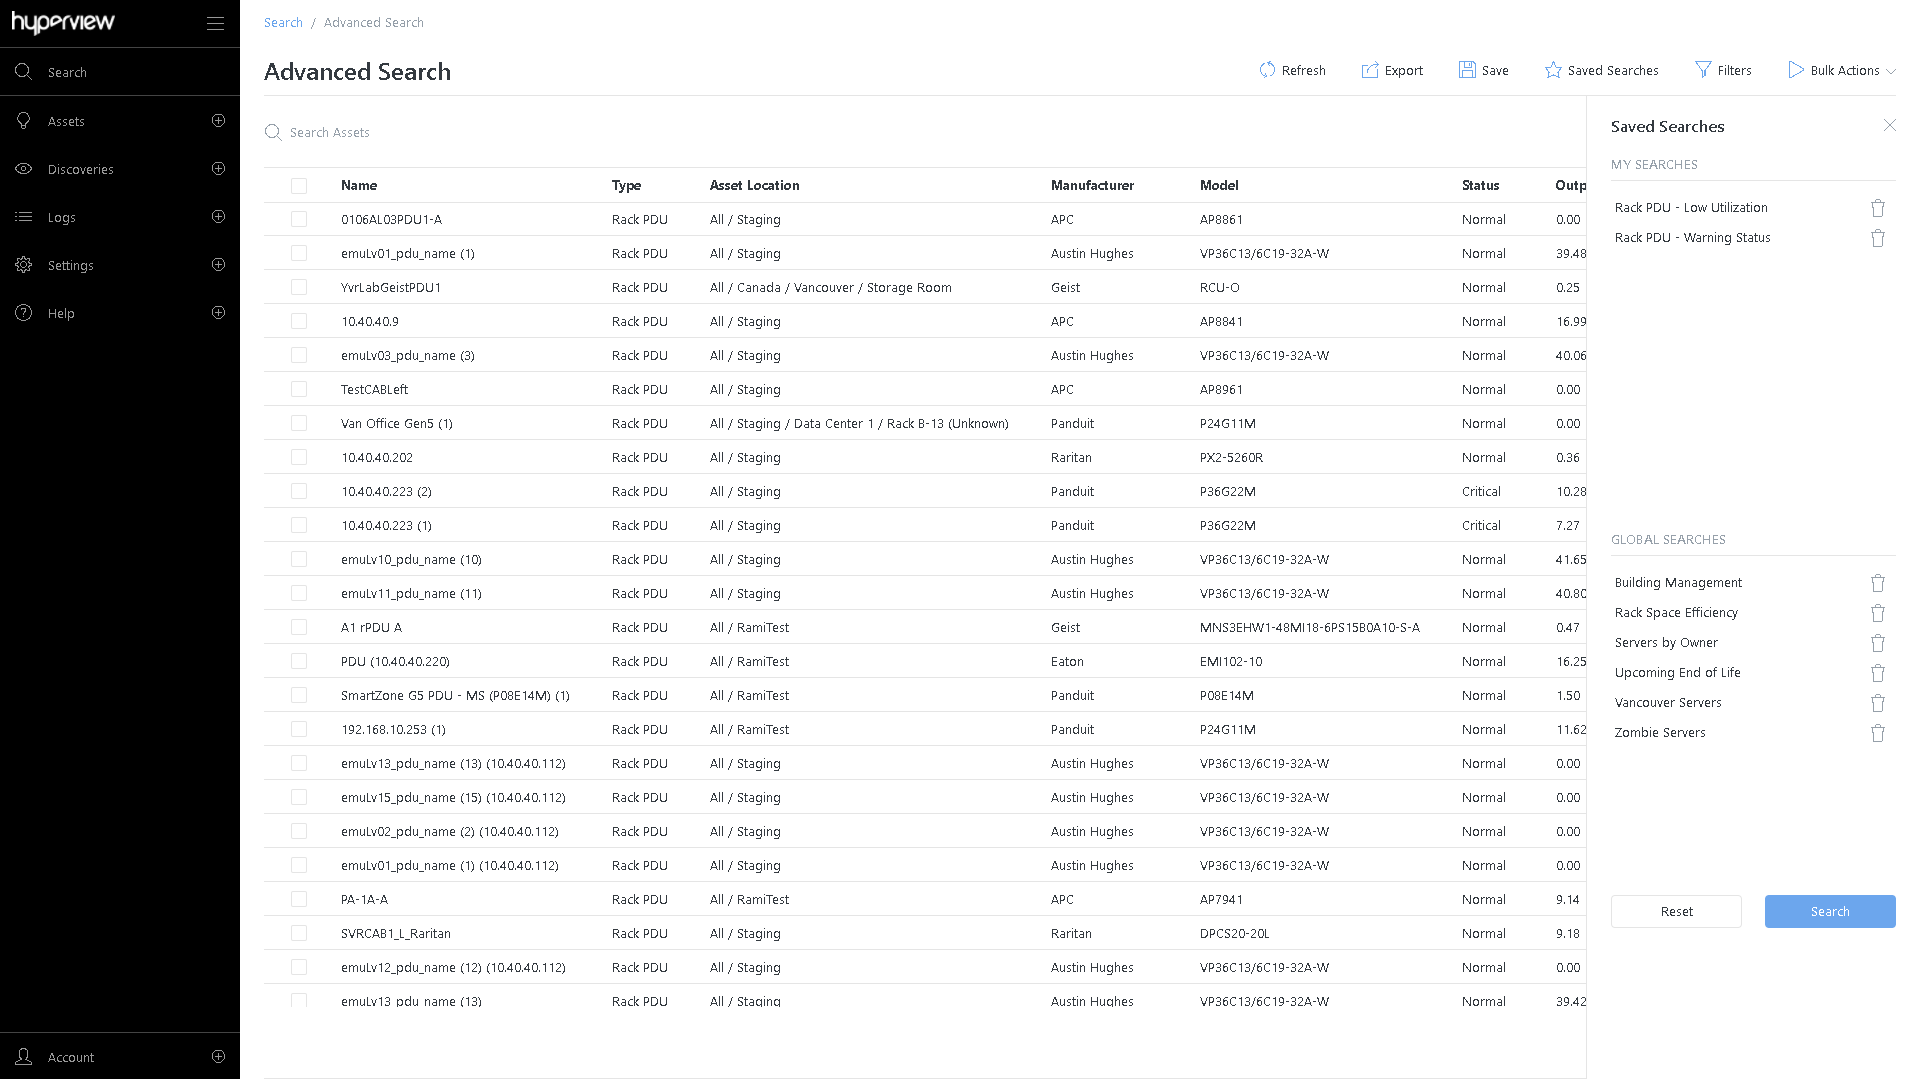
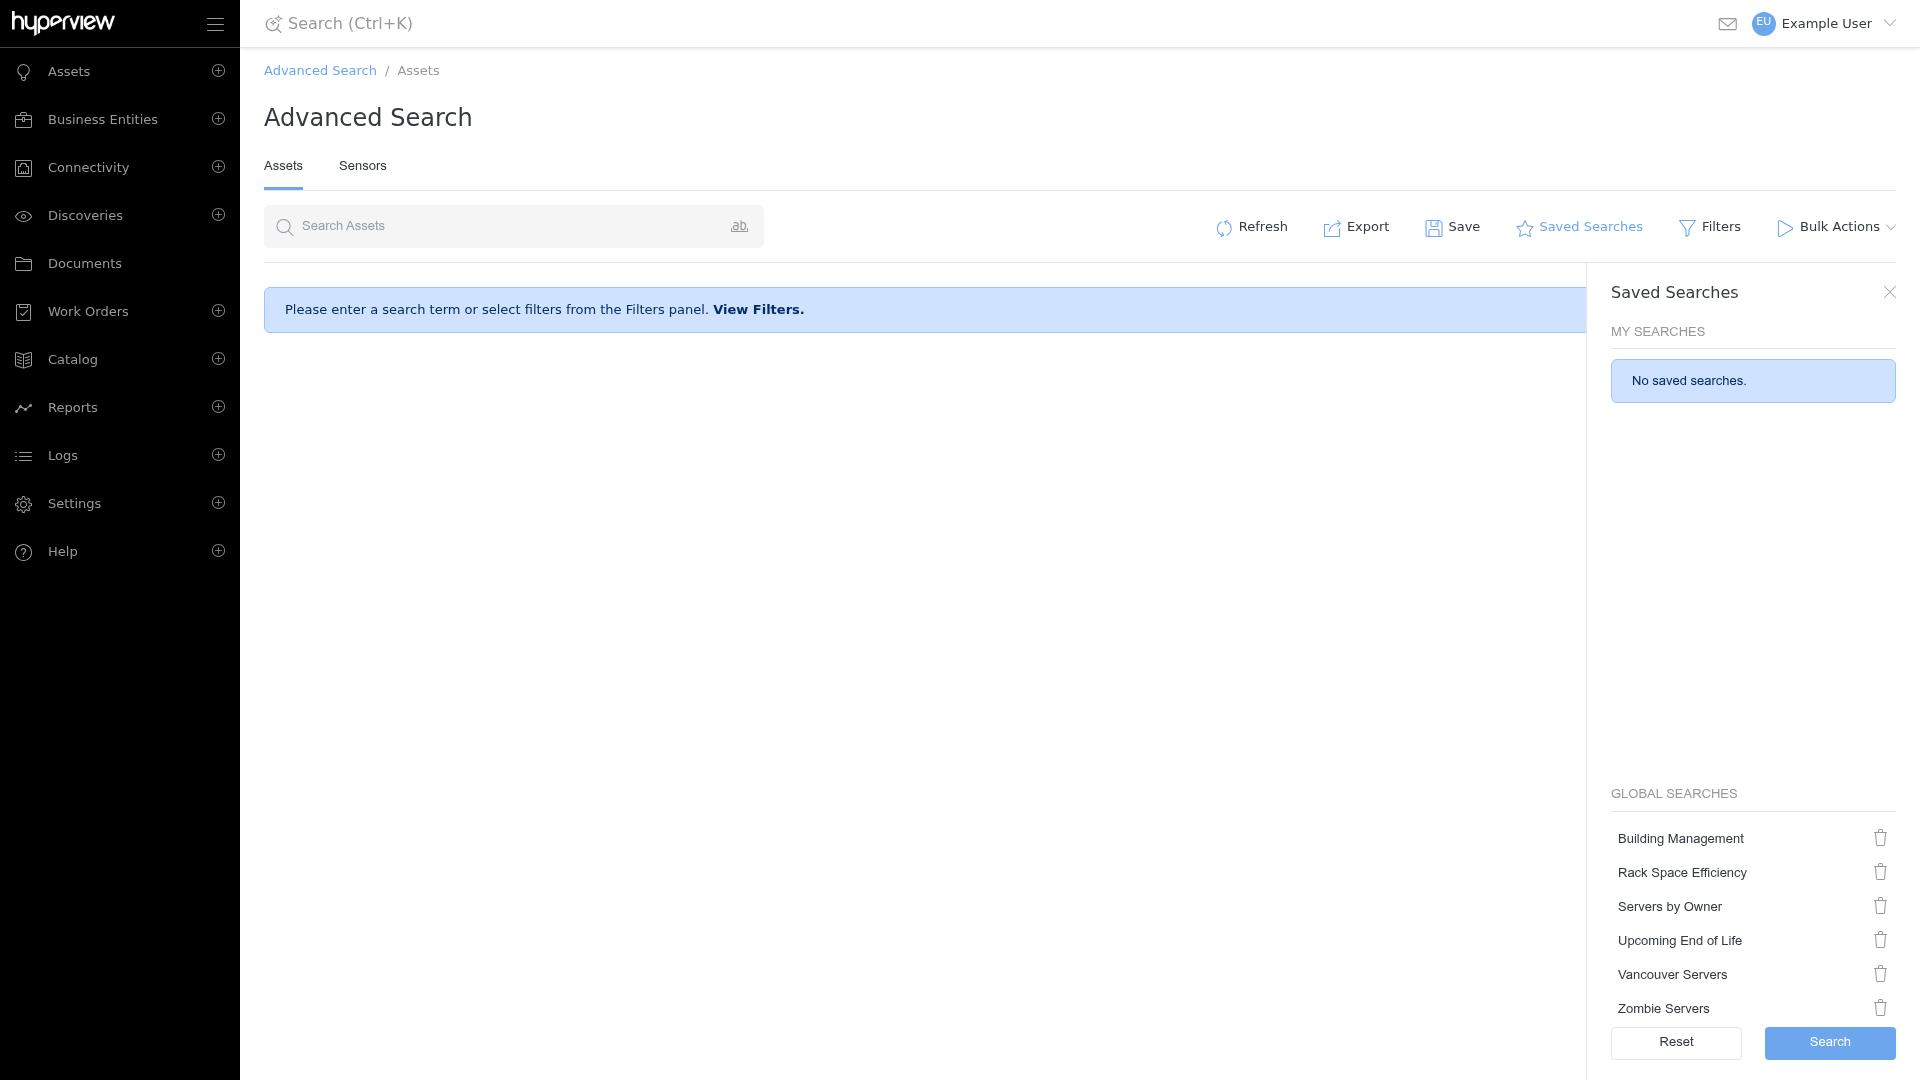
Docs updates (#73)
* Updates to npm packages
* Updates to sensor and asset search
* Refreshed some screenshots

diff --git a/documentation/user-guide/search/index.md b/documentation/user-guide/search/index.md
@@ -12,18 +12,18 @@ Quick Search and Advanced Search are both opened from the **Search** box in the 
 
 ## Quick Search and Advanced Search
 
-Quick Search lets you quickly lookup assets from the search palette (*Search → Quick*). Search results appear as soon as you type a matching character string. Clicking on a search result opens the corresponding asset Dashboard.
+Quick Search lets you quickly lookup assets from the **Quick** tab of the search palette. Search results appear as soon as you type a matching character string. Clicking on a search result opens the corresponding asset Dashboard.
 
 ```{image} /user-guide/search/media/qs.png
 :class: border-black
 ```
 
-The Advanced Search page is also accessible from the search palette (*Search → Advanced*). Search results appear in a grid, allowing users to perform relevant actions such as Export and Bulk Delete. Double-clicking a matching asset opens its Dashboard.
+The Advanced Search page is also accessible from the **Advanced** tab of the search palette. Search results appear in a grid, allowing users to perform relevant actions such as Export and Bulk Delete. Double-clicking a matching asset opens its Dashboard.
 
 Advanced Search has two tabs:
 
-- **Assets** — search for assets (described throughout this section).
-- **Sensors** — search for sensors across all asset types, and manage sensors in bulk. The Sensors tab has its own search box, filters, columns, and Export. For SNMP-based sensors, you can add the **OID** column to help verify and troubleshoot sensor readings.
+- **Assets** — search for assets. Each result is an asset. This is the default tab, and is described throughout this section.
+- **Sensors** — search for individual sensors across all asset types, and manage them in bulk. Each result is a sensor. The Sensors tab has its own search box, filters, columns, saved searches, Export, and Bulk Actions. Refer to {ref}`sensor-search` for details.
 
 ```{image} /user-guide/search/media/as.png
 :class: border-black
@@ -65,7 +65,7 @@ ___________________________________________
 
 ## Advanced Search-only features
 
-Apart from the features described in the previous section, Advanced Search lets you apply filters, add or remove grid columns, save searches, and perform generic grid operations such as exporting records.
+Apart from the features described in the previous section, Advanced Search lets you apply filters, add or remove grid columns, save searches, and perform generic grid operations such as exporting records. The filters, columns, and saved searches described below apply to the **Assets** tab (asset search); the **Sensors** tab provides its own equivalents, described in {ref}`sensor-search`.
 
 :::{note}
 A single Advanced Search query can return a maximum of 10,000 rows.
@@ -81,27 +81,33 @@ Filters are more structured and efficient compared to manual queries; we recomme
 
 #### Available filters
 
-The following filters are available:
+The following filters are available.
+
+Dropdown filters (selected directly in the Filters panel):
 
 - Type (you can select multiple asset types at once)
 - Location
 - Manufacturer
 - Model
 - Status
-- Asset Property (String)
-- Asset Property (Numeric)
-- Custom Property (String)
-- Custom Property (Numeric)
-- Custom Property (Date)
-- Sensor (String)
-- Sensor (Numeric)
+- Lifecycle State
+- Discovery State
+- Business Entity
+- Access Policy
+
+Property and sensor filters (added from the Property and Sensor Filters section — see "Adding filters" below):
+
+- Asset Property
+- Custom Property (Asset)
+- Custom Property (Business Entity)
+- Sensor
 
 Note that the default Location is All.
 
 #### Adding filters
 
 1. Click *Filters* on the Advanced Search page (or the *View Filters* link upon opening the page). The Filters panel will open.
-2. Select Type, Location, Manufacturer, Model, Status, and Lifecycle State values as needed.
+2. Select Location, Type, Manufacturer, Model, Status, Lifecycle State, Discovery State, Business Entity, and Access Policy values as needed.
 
 ```{image} /user-guide/search/media/as_filtersp.png
 :class: border-black
@@ -193,6 +199,61 @@ You can also {ref}`perform bulk actions<bulk-actions-doc>` against Advanced Sear
 ```{image} /user-guide/search/media/as_bulk.png
 :class: border-black
 ```
+
+______________________________________________________________________
+
+(sensor-search)=
+
+## Sensor Search
+
+While Asset Search returns assets, **Sensor Search** returns individual sensors. Switch to the **Sensors** tab of Advanced Search to find specific sensor readings, audit sensors of a given type, or manage sensors in bulk — across all asset types, regardless of which assets they belong to.
+
+```{image} /user-guide/search/media/as_sensors.png
+:class: border-black
+```
+
+Sensor Search works like Asset Search, with a few key differences:
+
+- Each row in the results grid is a **sensor**, not an asset. The Source Asset column links back to the asset that owns the sensor.
+- The Sensors tab has its own search box, filters, columns, saved searches, Export, and Bulk Actions, all independent from the Assets tab.
+- You search and filter by sensor attributes (such as Sensor Type and Source Protocol) rather than asset attributes.
+
+The searchable-fields behavior, double quotes, number and date matching, and the NOT operator described earlier all apply to the Sensors search box as well.
+
+### Sensor filters
+
+Click *Filters* to open the Filters panel, then narrow results using the following dropdown filters:
+
+- Sensor Location (default is All)
+- Source Asset Type
+- Sensor Type
+- Source Protocol
+- Linked Location
+- Data Collector
+- Access Policy
+- Is Numeric
+
+As with asset filters, sensor filters are AND-ed — results must match every condition you apply. Click *Apply Filters* to run the search, or *Reset* to clear the filters.
+
+### Sensor columns
+
+By default, the grid shows these columns: Sensor Name, Sensor Type, Latest Value, Source Asset, Source Asset Location, Linked Location, Linked Position, Source Protocol, Data Collector, and Last Updated.
+
+Click *Add* in the Columns area of the Filters panel to add or remove columns. Additional available columns include Sensor ID, List Index, Source Asset ID, Access Policy, Is Numeric, Raw Value, and OID.
+
+:::{tip}
+For SNMP-based sensors, add the **OID** column to help verify and troubleshoot sensor readings.
+:::
+
+### Sensor bulk actions
+
+Select one or more sensors using the row checkboxes, then click *Bulk Actions* to:
+
+- **Update Access Policy** — set the access policy on the selected sensors.
+- **Reset Access Policy** — reset the selected sensors to follow the access policy of their parent asset.
+- **Delete** — delete the selected sensors.
+
+You can also {ref}`export sensor results <extracting-data-doc>` as a spreadsheet and save sensor searches, just as you can on the Assets tab.
 
 ______________________________________________________________________
 

diff --git a/documentation/product/settings/topics/locale-settings.md b/documentation/product/settings/topics/locale-settings.md
@@ -4,7 +4,7 @@
 
 Administrators can configure application-wide locale settings from the Locale page. English, Español, and Français locales are currently supported.
 
-1. Go to *Settings -> General -> Locale*.
+1. Go to *Settings → General → Locale*.
 2. Specify the preferred Language, Length, Temperature, Volume, and Weight Unit.
 3. Click *Save*.
 
